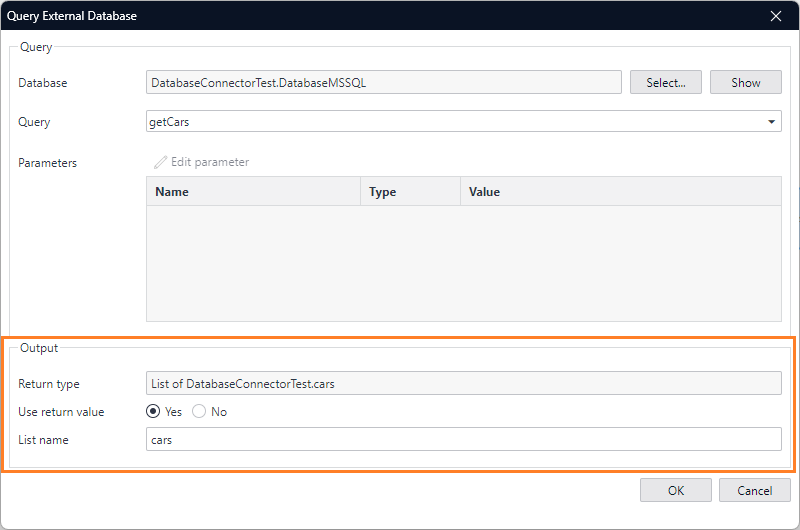
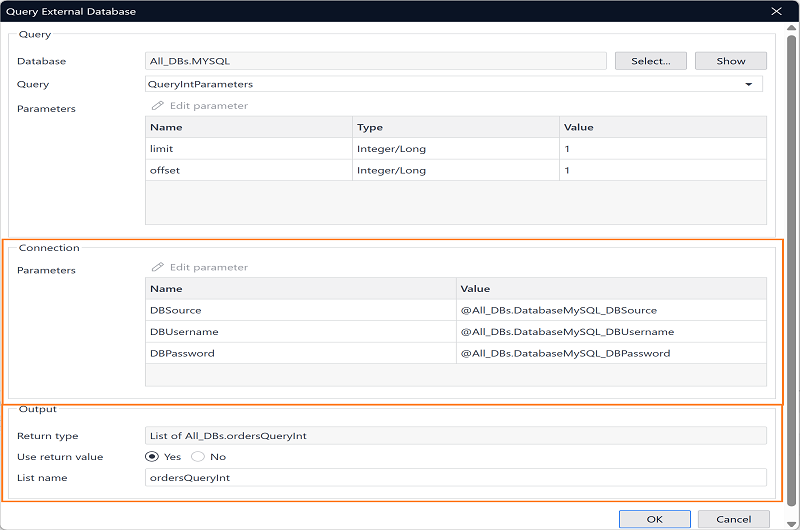
Updated External Database Connector documentation as per 11.1 release

Changed region(s): [[0.0, 0.0, 1.0, 1.0], [0.5625, 0.3321, 0.625, 0.3925], [0.1875, 0.483, 0.3125, 0.5132]]

diff --git a/content/en/docs/marketplace/platform-supported-content/modules/external-database-connector.md b/content/en/docs/marketplace/platform-supported-content/modules/external-database-connector.md
@@ -91,6 +91,9 @@ Constants are an environment variable whose values can differ per environment, W
 
 For free apps, make sure to add the default values to the constant in Studio Pro. For more information, see the [Deploying a Free App](https://docs.mendix.com/developerportal/deploy/mendix-cloud-deploy/deploying-an-app/#deploy-free-app) section below. {{% /alert %}}
 
+{{% alert color="info" %}}
+From 11.1 users have possibility to provide dynamic values to connection properties using connection parameters in Query External Database Activity. {{% /alert %}}
+
 ### Exploring Schemas of a Connected Database
 
 When the connection is successful and saved, you can search the **Browse database** tab for Tables, Views, Procedures, and Functions.
@@ -165,12 +168,13 @@ Use the [Query External Database](/refguide/query-external-database/) activity t
 2. Double-click the activity and in the **Database** field, click **Select** to choose the database you want to query.
 3. Select the **Query** you want to include in the activity (that you saved while [querying the database](#query-database)).
 4. Include any [parameters](#parameters).
-5. In the **Output** field, choose if you want to **Use return value**.
+5. Modify values for Connection Parameters, if you want to use different set of connection details during runtime.
+6. In the **Output** field, choose if you want to **Use return value**.
 
     {{< figure src="/attachments/appstore/platform-supported-content/modules/external-database-connector/return-type.png" class="no-border" >}}
 
-6. Click **OK**.
-7. Configure the end event (such as displaying a list, if you are selecting data to appear in a list). 
+7. Click **OK**.
+8. Configure the end event (such as displaying a list, if you are selecting data to appear in a list). 
 
 You can now use the microflow in your app. Below is an example of a configured microflow:
 

diff --git a/content/en/docs/refguide/modeling/integration/use-platform-supported-content/external-database-connector/query-and-integrate-external-data.md b/content/en/docs/refguide/modeling/integration/use-platform-supported-content/external-database-connector/query-and-integrate-external-data.md
@@ -160,11 +160,13 @@ For MSSQL, for **INOUT** and **OUT** parameters of type Decimal, test values (in
 
 3. In the **Query** field, select the required query from the drop-down.
 
-4. Assign values to the parameters using the **Expression editor**.
+4. Assign values to the query parameters using the **Expression editor**.
+
+5. Assign values to the connection parameters that will be used to make a connection during runtime using the **Expression editor**.
 
 5. Output details for the selected query auto-populate.
 
-    {{< figure src="http://attachments/refguide/modeling/integration/use-platform-supported-content/use-the-external-database-connector/7.png" width="600"  >}}
+    {{< figure src="http://attachments/refguide/modeling/integration/use-platform-supported-content/use-the-external-database-connector/8.png" width="600"  >}}
 
 You are now ready to use data from an external database in your Mendix App.
 

diff --git a/content/en/docs/refguide/modeling/application-logic/microflows-and-nanoflows/activities/integration-activities/query-external-database.md b/content/en/docs/refguide/modeling/application-logic/microflows-and-nanoflows/activities/integration-activities/query-external-database.md
@@ -27,6 +27,12 @@ In the **Query** section are the following properties:
 * **Query** – the saved SQL query from your configuration of the Database connector
 * **Parameters** – the saved parameters from your configuration of the Database connector
 
+In the **Connection** section are the following properties, they are used to provide dynamic connection parameter values:
+
+* **DBSource** – Enter JDBC URL you want to use for connection during runtime
+* **DBUsername** – Enter Username you want to use for connection during runtime
+* **DBPassword** – Enter Password you want to use for connection during runtime
+
 In the **Output** section are the following properties:
 
 * **Return type** – the return type once the microflow is completed
